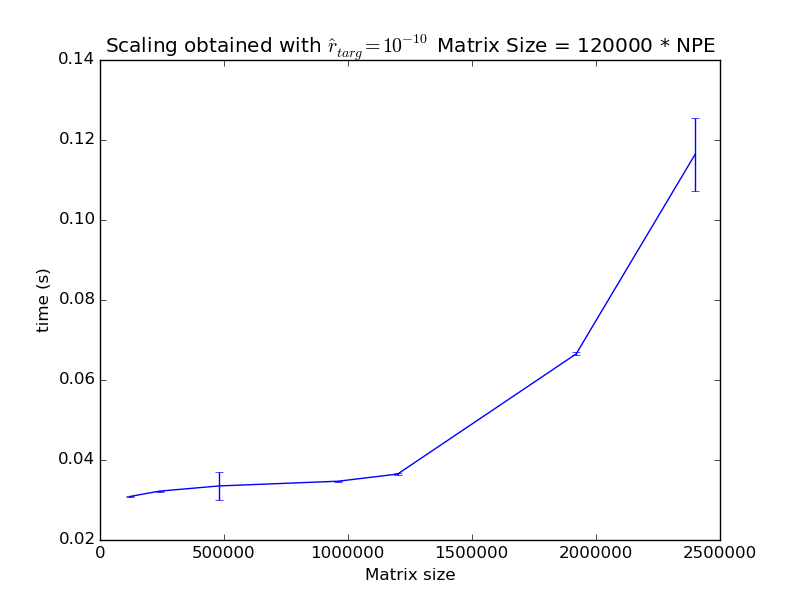
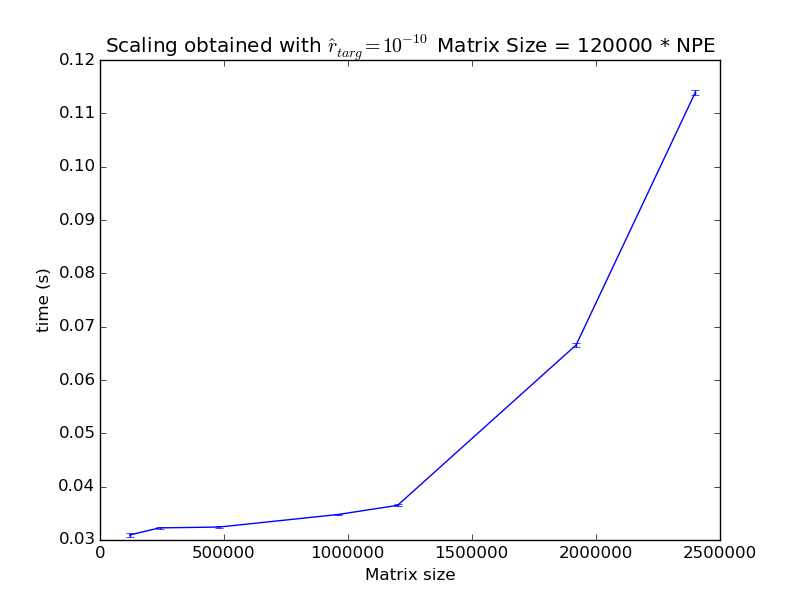
last commit before dinner

diff --git a/D3/src/benchmark.c b/D3/src/benchmark.c
@@ -23,7 +23,7 @@ int main(int argc, char** argv){
   /* Initialization of the variables needed in the parallelized */
   /* version; each process works on a vector of size L / NumberProcessingElements */
   /* (unless there is a rest, that requires a work redistribution) */
-  int NPE, MyID, MyTag, vsize, rest, l_tmp, count, repet = 1; //00;
+  int NPE, MyID, MyTag, vsize, rest, l_tmp, count;
   double* results_recv;
   int *displ, *recv;
   double tstart, tend;
@@ -96,8 +96,7 @@ int main(int argc, char** argv){
 
   tstart = MPI_Wtime();
 
-  for(j = 0; j < repet; ++j)
-    sparse_conj_grad_alg(f, b, sigma, s, r_hat, L, &n_it, MyID, NPE);
+  sparse_conj_grad_alg(f, b, sigma, s, r_hat, L, &n_it, MyID, NPE);
 
   tend = MPI_Wtime();
 
@@ -106,7 +105,7 @@ int main(int argc, char** argv){
   
   if(MyID == 0){
     /* STRONG SCALING DATA */
-  /* timing = fopen("results/strong_timing.dat", "a");     */
+  /* timing = fopen("results/strong_timing.dat", "a"); */
   /* fprintf(timing, "%d\t%lg\n", NPE, tend - tstart); */
 
     /* WEAK SCALING */
